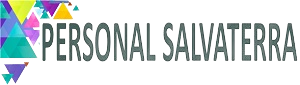
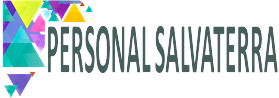
Alteração de desing
Alteração de tamanho de fontes, divs, etc, após visualização na tela do celular.

diff --git a/assets/css/style.css b/assets/css/style.css
@@ -6,29 +6,29 @@ body {
 
 .header {
   background-color: #e4e2cd;
-  height: 70px;
+  height: 90px;
 }
 .header .header__imagem {
-  height: 70px;
+  height: 90px;
   position: absolute;
   top: 0;
   left: 0;
 }
 .header .menu a {
-  font-size: 1.2rem;
+  font-size: 2rem;
+  border-bottom: 3px double #2E8B57;
+}
+.header .menu .offcanvas-body {
+  background-color: #F8F6F4;
 }
 .header .menu .menu__header {
   background-color: #e4e2cd;
-  height: 70px;
-}
-.header .menu .menu__header .menu__header__titulo {
-  font-size: 1.6rem;
-  color: #475f5a;
+  height: 90px;
 }
 .header .menu .menu__header .btn-close {
   position: absolute;
   right: 20px;
-  font-size: 1.2rem;
+  font-size: 1.4rem;
   color: #475f5a;
   opacity: 0.3;
 }
@@ -37,37 +37,40 @@ body {
   top: 50%;
   transform: translateY(-50%);
   right: 10px;
-  font-size: 0.9rem;
+  font-size: 1.2rem;
 }
 
 main {
   background-color: #F8F6F4;
-  padding-top: 70px;
+  padding-top: 90px;
   text-align: center;
 }
 main .carrossel {
-  padding: 0 40px 60px 40px;
+  padding: 0 30px 60px 30px;
 }
 main h1 {
-  padding: 20px 30px;
-  text-transform: capitalize;
-  font-weight: 500;
+  padding: 30px 30px;
+  font-weight: 600;
+  font-size: 2rem;
+  font-family: "Barlow", sans-serif;
 }
 main h2 {
-  font-size: 1.4rem;
+  font-size: 1.6rem;
   margin: 20px 0;
+  font-family: "Barlow", sans-serif;
 }
 main h5 {
   color: #475f5a;
   font-weight: bold;
-  font-size: 1.1rem;
+  font-size: 1.4rem;
   text-shadow: 1px 1px 8px #fcfcfc;
   margin: 0;
 }
 main p {
   color: #475f5a;
-  font-size: 0.8rem;
+  font-size: 1.1rem;
   margin: 0;
+  font-family: "Barlow", sans-serif;
 }
 main .contato {
   background-color: #2E8B57;
@@ -78,7 +81,8 @@ main .contato span {
   text-transform: uppercase;
   font-weight: bold;
   letter-spacing: 1.3px;
-  font-size: 1.8rem;
+  font-size: 2.4rem;
+  font-family: "Barlow", sans-serif;
 }
 main .contato .contato__container__icones {
   display: flex;
@@ -100,7 +104,7 @@ main .contato .contato__icones {
 .about p {
   color: #475f5a;
   background-color: #F8F6F4;
-  font-size: 1.2rem;
+  font-size: 1.4rem;
   margin: 0 10% 10px 10%;
 }
 .about p:last-child {
@@ -117,10 +121,10 @@ main .contato .contato__icones {
 }
 .depoimentos h2 {
   background-color: #e4e2cd;
-  padding: 20px 0;
+  padding: 30px 0;
   text-transform: uppercase;
   font-weight: 600;
-  font-size: 1.8rem;
+  font-size: 2rem;
   margin: 0;
 }
 .depoimentos .carousel-inner {
@@ -129,10 +133,10 @@ main .contato .contato__icones {
   padding: 10px;
   margin: 20px auto;
   max-width: 80%;
-  height: 500px;
+  height: 550px;
 }
 .depoimentos .depoimentos__texto {
-  font-size: 1.2rem;
+  font-size: 1.4rem;
 }
 .depoimentos .depoimentos__texto p {
   margin: 0;
@@ -145,6 +149,7 @@ main .contato .contato__icones {
   font-style: italic;
 }
 .depoimentos .depoimentos__botao {
+  font-size: 1.4rem;
   background-color: #2E8B57;
   color: #F8F6F4;
   border: 2px solid;
@@ -155,7 +160,6 @@ main .contato .contato__icones {
 .depoimentos .depoimentos__botao:hover {
   background-color: #F8F6F4;
   color: #2E8B57;
-  display: inline-block;
 }
 
 footer {
@@ -163,7 +167,7 @@ footer {
   color: #475f5a;
   text-align: center;
   font-family: "Barlow", sans-serif;
-  font-size: 1rem;
+  font-size: 1.3rem;
   padding: 20px;
   display: flex;
   align-items: center;

diff --git a/assets/css/components/_main.scss b/assets/css/components/_main.scss
@@ -2,35 +2,39 @@
 
 main {
     background-color: $cor-paleta-4;
-    padding-top: 70px;
+    padding-top: 90px;
     text-align: center;
 
     .carrossel {
-        padding: 0 40px 60px 40px;
+        padding: 0 30px 60px 30px;
     }
 
     h1{
-        padding: 20px 30px;
-        text-transform: capitalize;
-        font-weight: 500;
+        padding: 30px 30px;
+        font-weight: 600;
+        font-size: $tamanho-texto;
+        font-family: $font-barlow;
     }
+
     h2 {
-        font-size: $tamanho-texto * .7;
+        font-size: $tamanho-texto * 0.8;
         margin: 20px 0;
+        font-family: $font-barlow;
     }
 
     h5 {
         color: $cor-paleta-1;
         font-weight: bold;
-        font-size: $tamanho-texto * .55;
+        font-size: $tamanho-texto * .7;
         text-shadow: 1px 1px 8px #fcfcfc;
         margin: 0;
     }
 
     p {
         color: $cor-paleta-1;
-        font-size: $tamanho-texto * 0.4;
+        font-size: $tamanho-texto * 0.55;
         margin: 0;
+        font-family: $font-barlow;
     }
 
     .contato {
@@ -42,7 +46,8 @@ main {
             text-transform: uppercase;
             font-weight: bold;
             letter-spacing: 1.3px;
-            font-size: $tamanho-texto * .9;
+            font-size: $tamanho-texto * 1.2;
+            font-family: $font-barlow;
         }
 
         .contato__container__icones{

diff --git a/assets/css/components/_navbar.scss b/assets/css/components/_navbar.scss
@@ -2,10 +2,10 @@
 
 .header {
     background-color: $cor-paleta-3;
-    height: 70px;
+    height: 90px;
 
     .header__imagem {
-        height: 70px;
+        height: 90px;
         position: absolute;
         top: 0;
         left: 0;
@@ -13,22 +13,22 @@
 
     .menu {
         a {
-            font-size: $tamanho-texto * 0.6;
+            font-size: $tamanho-texto;
+            border-bottom: 3px double $cor-paleta-2;
+        }
+
+        .offcanvas-body {
+            background-color: $cor-paleta-4;
         }
 
         .menu__header {
             background-color: $cor-paleta-3;
-            height: 70px;
-
-            .menu__header__titulo {
-                font-size: $tamanho-texto * 0.8;
-                color: $cor-paleta-1;
-            }
+            height: 90px;
 
             .btn-close {
                 position: absolute;
                 right: 20px;
-                font-size: 1.2rem;
+                font-size: $tamanho-texto * 0.7;
                 color: $cor-paleta-1;
                 opacity: 0.3;
             }
@@ -40,7 +40,6 @@
         top: 50%;
         transform: translateY(-50%);
         right: 10px;
-        font-size: 0.90rem;
+        font-size: $tamanho-texto * 0.6;
     }
 }
-

diff --git a/assets/css/components/_testimonials.scss b/assets/css/components/_testimonials.scss
@@ -10,10 +10,10 @@
 
     h2 {
         background-color: $cor-paleta-3;
-        padding: 20px 0;
+        padding: 30px 0;
         text-transform: uppercase;
         font-weight: 600;
-        font-size: $tamanho-texto * 0.9;
+        font-size: $tamanho-texto;
         margin: 0;
     }
 
@@ -23,11 +23,11 @@
         padding: 10px;
         margin: 20px auto;
         max-width: 80%;
-        height: 500px;
+        height: 550px;
     }
 
     .depoimentos__texto {
-        font-size: $tamanho-texto * 0.6;
+        font-size: $tamanho-texto * 0.7;
         p{
             margin: 0;
         }
@@ -40,6 +40,7 @@
         }
     }
     .depoimentos__botao {
+        font-size: $tamanho-texto * 0.7;
         background-color: $cor-paleta-2;
         color: $cor-paleta-4;
         border: 2px solid;
@@ -51,6 +52,5 @@
     .depoimentos__botao:hover {
         background-color: $cor-paleta-4;
         color: $cor-paleta-2;
-        display: inline-block;
     }
 }

diff --git a/index.html b/index.html
@@ -93,7 +93,7 @@
                     <img src="./assets/img/carrossel3-removebg.png" class="d-block w-100" alt="...">
                     <div class="carousel-caption">
                         <h5>Saúde e qualidade de vida</h5>
-                        <p>Adote hábitos saudáveis para um corpo e mente equilibrados</p>
+                        <p>Hábitos saudáveis para um corpo e mente equilibrados</p>
                     </div>
                 </div>
                 <div class="carousel-item">

diff --git a/assets/css/components/_footer.scss b/assets/css/components/_footer.scss
@@ -5,7 +5,7 @@ footer {
     color: $cor-paleta-1;
     text-align: center;
     font-family: $font-barlow;
-    font-size: $tamanho-texto * 0.5;
+    font-size: $tamanho-texto * 0.65;
     padding: 20px;
     display: flex;
     align-items: center;

diff --git a/assets/css/components/_about.scss b/assets/css/components/_about.scss
@@ -12,7 +12,7 @@
     p {
         color: $cor-paleta-1;
         background-color: $cor-paleta-4;
-        font-size: $tamanho-texto * 0.6;
+        font-size: $tamanho-texto * 0.7;
         margin: 0 10% 10px 10%;
     }
     p:last-child {

diff --git a/README.md b/README.md
@@ -1,0 +1,17 @@
+<!-- Última Atualização: 14 de Agosto de 2023 -->
+# Site Personal Salvaterra
+
+Olá, pessoas! Estou empolgado em compartilhar meu primeiro site, que construí com base nos conhecimentos adquiridos em alguns cursos da plataforma Alura.
+
+Estou realmente satisfeito com o resultado, mesmo sabendo que ainda há espaço para melhorias. Embora não seja uma produção totalmente profissional, estou feliz com o que alcancei em cerca de 2 meses de estudo.
+
+E quanto a você? Adoraria saber sua opinião e quais sugestões você pode oferecer para torná-lo ainda melhor! 
+
+
+## Tecnologias utilizadas:
+
+* HTML
+* CSS
+* SASS
+* Bootstrap
+
